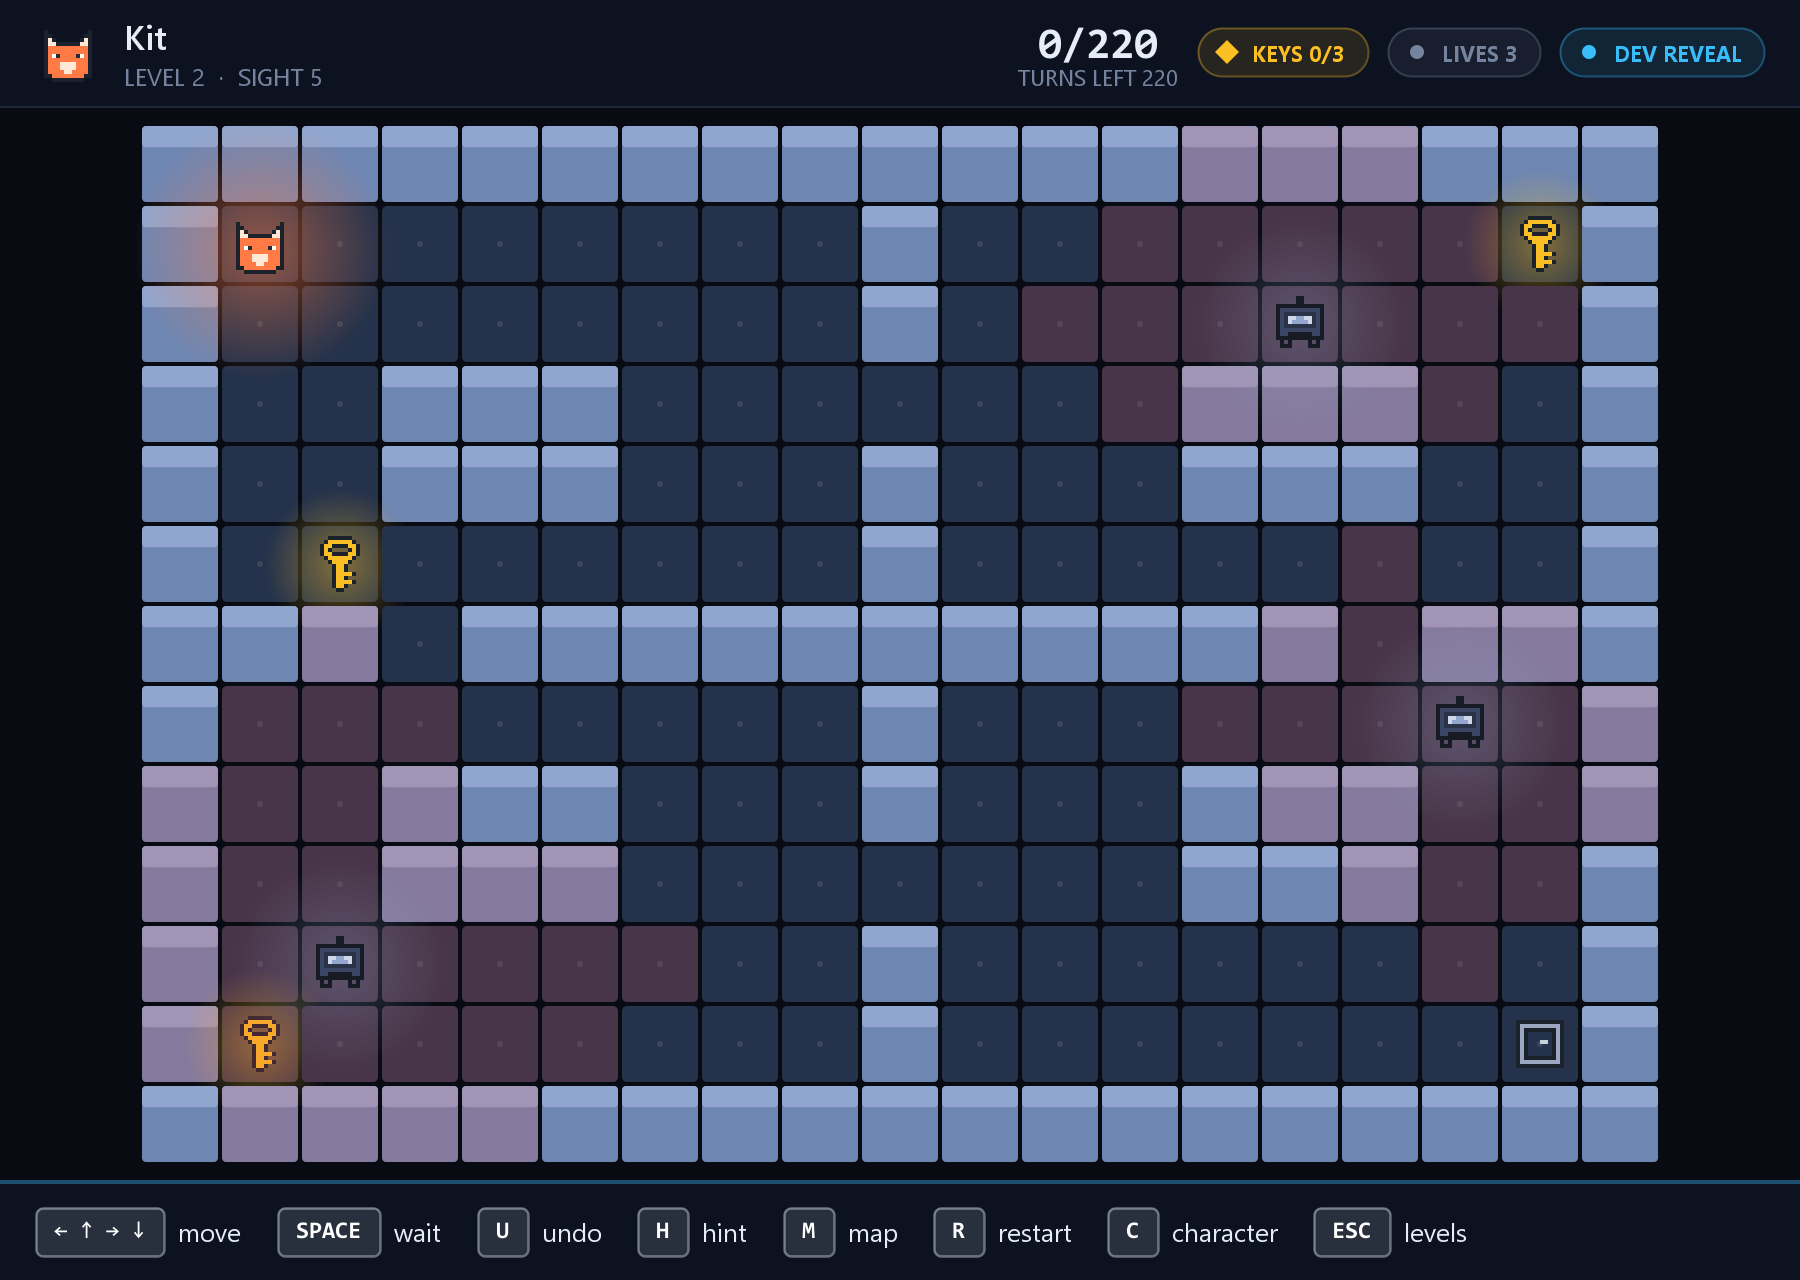
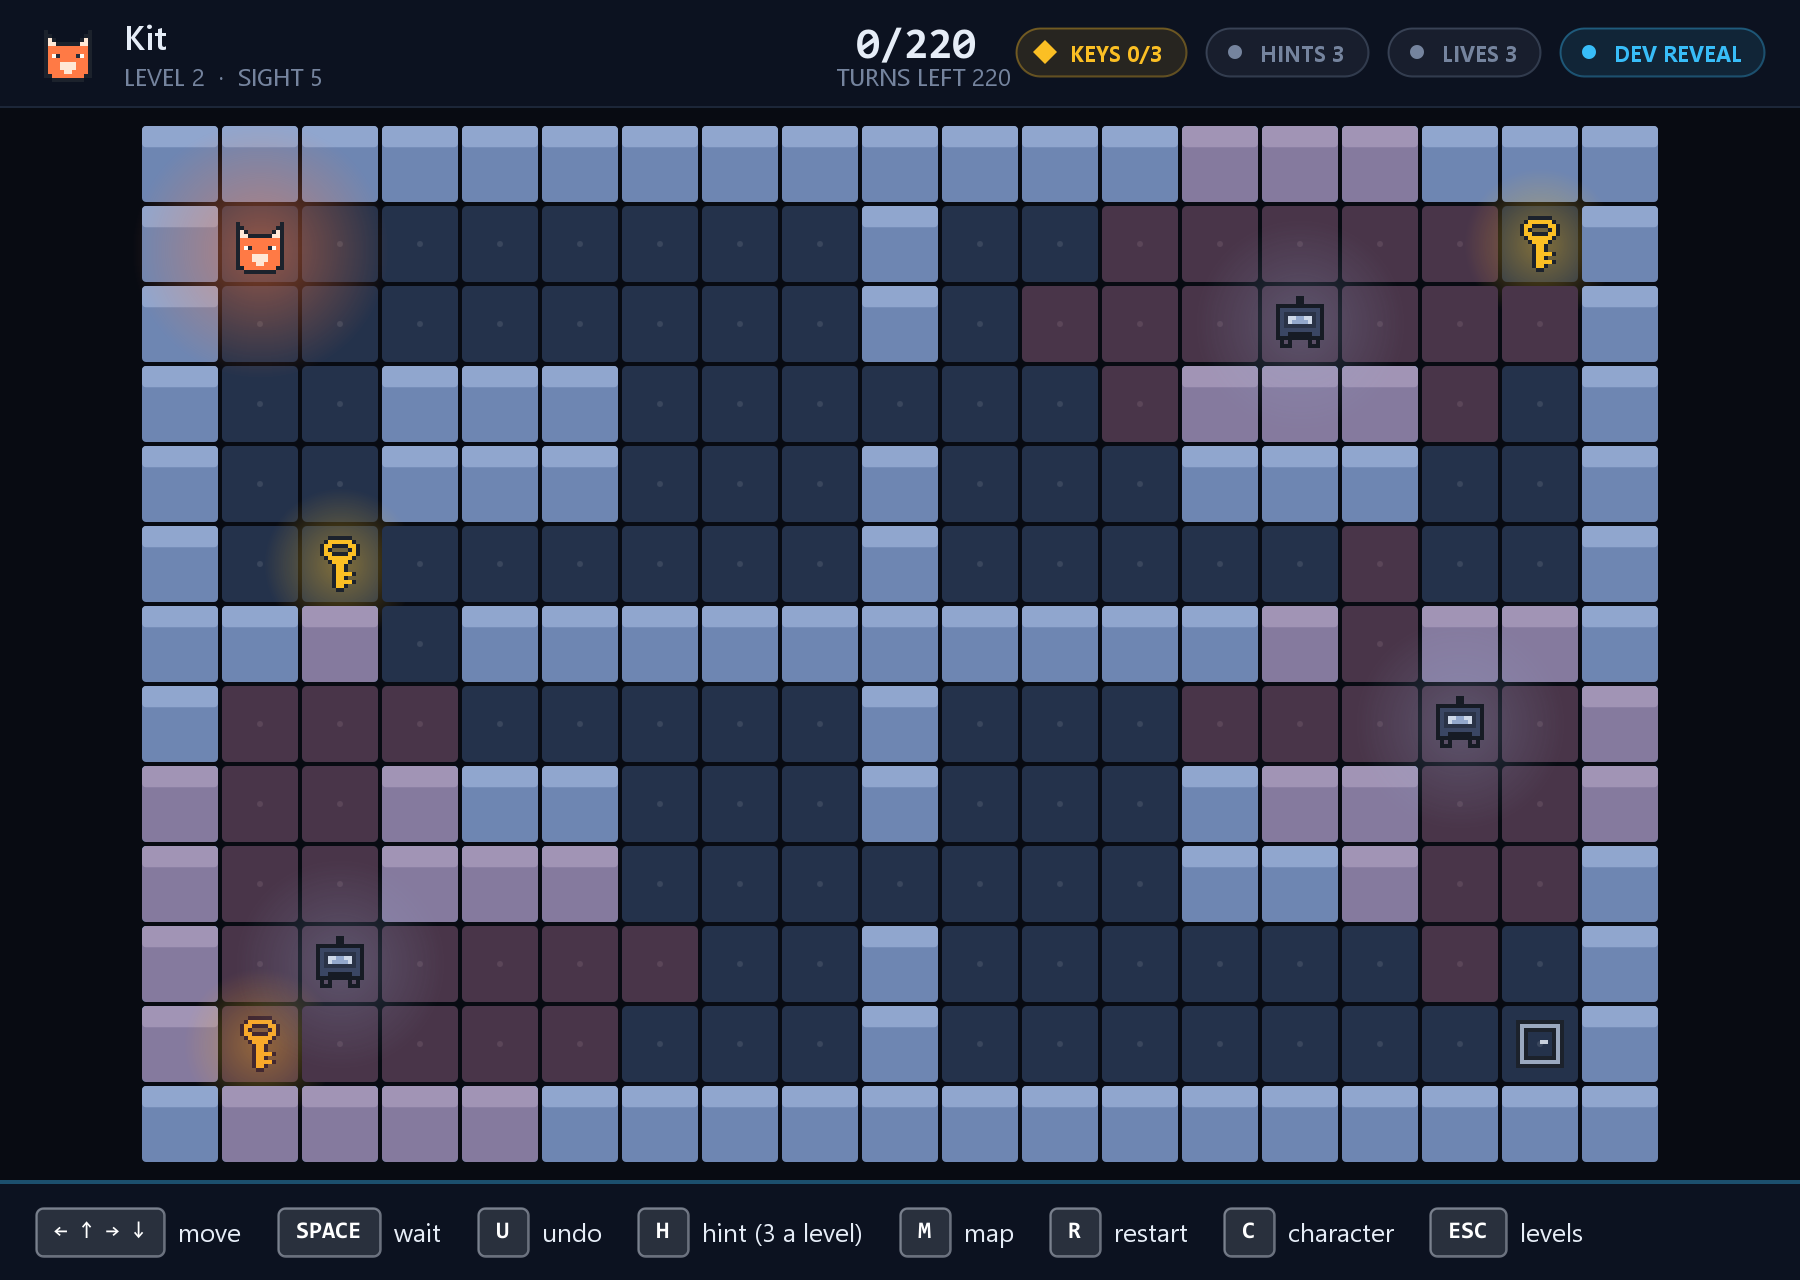
Stop the turn counter sliding under the player's name
Adding the hints chip pushed the counter left into the identity text, so the bar now measures the row first and drops its least important chips when there is not enough room.

Changed region(s): [[0.4356, 0.9375, 0.8711, 1.0], [0.4667, 0.0, 0.7467, 0.0625]]

diff --git a/src/main/java/com/signallost/ui/HudBar.java b/src/main/java/com/signallost/ui/HudBar.java
@@ -13,6 +13,9 @@ import java.awt.RenderingHints;
 import java.awt.geom.Ellipse2D;
 import java.awt.geom.Path2D;
 import java.awt.geom.RoundRectangle2D;
+import java.util.ArrayList;
+import java.util.Comparator;
+import java.util.List;
 
 /**
  * The strip above the map: who you are playing as, the level, the turn counter,
@@ -22,6 +25,9 @@ import java.awt.geom.RoundRectangle2D;
 public final class HudBar extends JPanel {
 
     private static final int HEIGHT = 54;
+
+    /** Clear space kept between the player's name and the turn counter. */
+    private static final int GAP_BESIDE_NAME = 16;
 
     /** Marks drawn on a chip's dot, so chips read at a glance. */
     private enum Glyph { DOT, DIAMOND }
@@ -66,7 +72,11 @@ public final class HudBar extends JPanel {
 
         g.setColor(Palette.TEXT_DIM);
         g.setFont(Fonts.body(12f));
-        g.drawString(prettyLevelName() + "  ·  SIGHT " + state.fog().sightRadius(), 62, 43);
+        g.drawString(levelAndSight(), 62, 43);
+    }
+
+    private String levelAndSight() {
+        return prettyLevelName() + "  ·  SIGHT " + state.fog().sightRadius();
     }
 
     /** Turns a resource name like "level1" into "LEVEL 1" for display. */
@@ -74,32 +84,81 @@ public final class HudBar extends JPanel {
         return levelName.replaceAll("(?<=\\D)(?=\\d)", " ").toUpperCase();
     }
 
-    private void drawRightHandStats(Graphics2D g) {
-        int x = getWidth() - 18;
+    /**
+     * A chip waiting to be drawn, and how readily it gives up its place.
+     *
+     * <p>{@code rank} is the order they survive in when the bar is too narrow
+     * for all of them: lowest goes first. The developer lamp is the first thing
+     * nobody needs; the key count is the last.
+     */
+    private record Chip(String label, Color colour, Glyph glyph, int rank) {
+    }
 
+    /**
+     * Chips are laid out right to left and the turn counter takes whatever is
+     * left over, which used to mean it had no lower bound at all — adding one
+     * more chip slid the counter straight through the player's name. So the row
+     * is measured against the space actually available first, and the least
+     * important chips drop off until it fits.
+     */
+    private void drawRightHandStats(Graphics2D g) {
+        List<Chip> chips = new ArrayList<>();
         if (state.fog().isRevealAll()) {
-            x = drawChip(g, x, "DEV REVEAL", Palette.ACCENT, Glyph.DOT);
+            chips.add(new Chip("DEV REVEAL", Palette.ACCENT, Glyph.DOT, 1));
         }
         if (state.wasSpotted()) {
-            x = drawChip(g, x, "SPOTTED", Palette.DANGER, Glyph.DOT);
+            chips.add(new Chip("SPOTTED", Palette.DANGER, Glyph.DOT, 5));
         }
         GuardMode alert = state.highestAlertLevel();
         if (alert != null && alert != GuardMode.PATROL) {
-            x = drawChip(g, x, alert.label().toUpperCase(), alertColour(alert), Glyph.DOT);
+            chips.add(new Chip(alert.label().toUpperCase(), alertColour(alert), Glyph.DOT, 4));
         }
         if (state.sightings() > 0) {
-            x = drawChip(g, x, "SEEN " + state.sightings(), Palette.GUARD_ALERT, Glyph.DOT);
+            // Sightings cost stars, so they outrank the undo depth, which is trivia.
+            chips.add(new Chip("SEEN " + state.sightings(), Palette.GUARD_ALERT, Glyph.DOT, 3));
         }
         if (state.canUndo()) {
-            x = drawChip(g, x, "UNDO " + state.undoDepth(), Palette.ACCENT, Glyph.DOT);
+            chips.add(new Chip("UNDO " + state.undoDepth(), Palette.ACCENT, Glyph.DOT, 2));
         }
-        x = drawChip(g, x, livesLabel(), livesColour(), Glyph.DOT);
-        x = drawChip(g, x, hintsLabel(), hintsColour(), Glyph.DOT);
-        x = drawChip(g, x,
-                "KEYS " + state.keysHeld() + "/" + state.keysRequired(),
-                state.hasAllKeys() ? Palette.EXIT_OPEN : Palette.KEY,
-                Glyph.DIAMOND);
+        chips.add(new Chip(livesLabel(), livesColour(), Glyph.DOT, 7));
+        chips.add(new Chip(hintsLabel(), hintsColour(), Glyph.DOT, 6));
+        chips.add(new Chip("KEYS " + state.keysHeld() + "/" + state.keysRequired(),
+                state.hasAllKeys() ? Palette.EXIT_OPEN : Palette.KEY, Glyph.DIAMOND, 8));
+
+        int room = getWidth() - 18 - identityRightEdge(g) - GAP_BESIDE_NAME - turnCounterWidth(g);
+        while (chips.size() > 1 && rowWidth(g, chips) > room) {
+            chips.remove(chips.stream()
+                    .min(Comparator.comparingInt(Chip::rank))
+                    .orElseThrow());
+        }
+
+        int x = getWidth() - 18;
+        for (Chip chip : chips) {
+            x = drawChip(g, x, chip.label(), chip.colour(), chip.glyph());
+        }
         drawTurnCounter(g, x);
+    }
+
+    private int rowWidth(Graphics2D g, List<Chip> chips) {
+        int total = 0;
+        for (Chip chip : chips) {
+            total += chipWidth(g, chip.label()) + 10;
+        }
+        return total;
+    }
+
+    private int chipWidth(Graphics2D g, String label) {
+        g.setFont(Fonts.bodyBold(11f));
+        return g.getFontMetrics().stringWidth(label) + 16 + 22;
+    }
+
+    /** Where the name and level line stop, so nothing is drawn on top of them. */
+    private int identityRightEdge(Graphics2D g) {
+        g.setFont(Fonts.display(17f));
+        int name = g.getFontMetrics().stringWidth(critter.displayName());
+        g.setFont(Fonts.body(12f));
+        int beneath = g.getFontMetrics().stringWidth(levelAndSight());
+        return 62 + Math.max(name, beneath);
     }
 
     private String livesLabel() {
@@ -180,11 +239,26 @@ public final class HudBar extends JPanel {
      * <p>The number changes colour as the clock runs down, so the pressure is
      * felt on the glance rather than only on the arithmetic.
      */
-    private void drawTurnCounter(Graphics2D g, int rightEdge) {
-        String number = state.hasTurnLimit()
+    private String turnNumber() {
+        return state.hasTurnLimit()
                 ? state.turnsTaken() + "/" + state.turnLimit()
                 : String.valueOf(state.turnsTaken());
-        String label = state.hasTurnLimit() ? "TURNS LEFT " + state.turnsRemaining() : "TURNS";
+    }
+
+    private String turnLabel() {
+        return state.hasTurnLimit() ? "TURNS LEFT " + state.turnsRemaining() : "TURNS";
+    }
+
+    private int turnCounterWidth(Graphics2D g) {
+        g.setFont(Fonts.mono(22f));
+        int number = g.getFontMetrics().stringWidth(turnNumber());
+        g.setFont(Fonts.body(11f));
+        return Math.max(number, g.getFontMetrics().stringWidth(turnLabel()));
+    }
+
+    private void drawTurnCounter(Graphics2D g, int rightEdge) {
+        String number = turnNumber();
+        String label = turnLabel();
 
         g.setFont(Fonts.mono(22f));
         FontMetrics numberMetrics = g.getFontMetrics();
@@ -195,7 +269,9 @@ public final class HudBar extends JPanel {
         int labelWidth = labelMetrics.stringWidth(label);
 
         int blockWidth = Math.max(numberWidth, labelWidth);
-        int x = rightEdge - blockWidth;
+
+        // Never let the counter reach the name, however many chips are up.
+        int x = Math.max(rightEdge - blockWidth, identityRightEdge(g) + GAP_BESIDE_NAME);
 
         g.setColor(Palette.TEXT_DIM);
         g.drawString(label, x + (blockWidth - labelWidth) / 2, 43);
